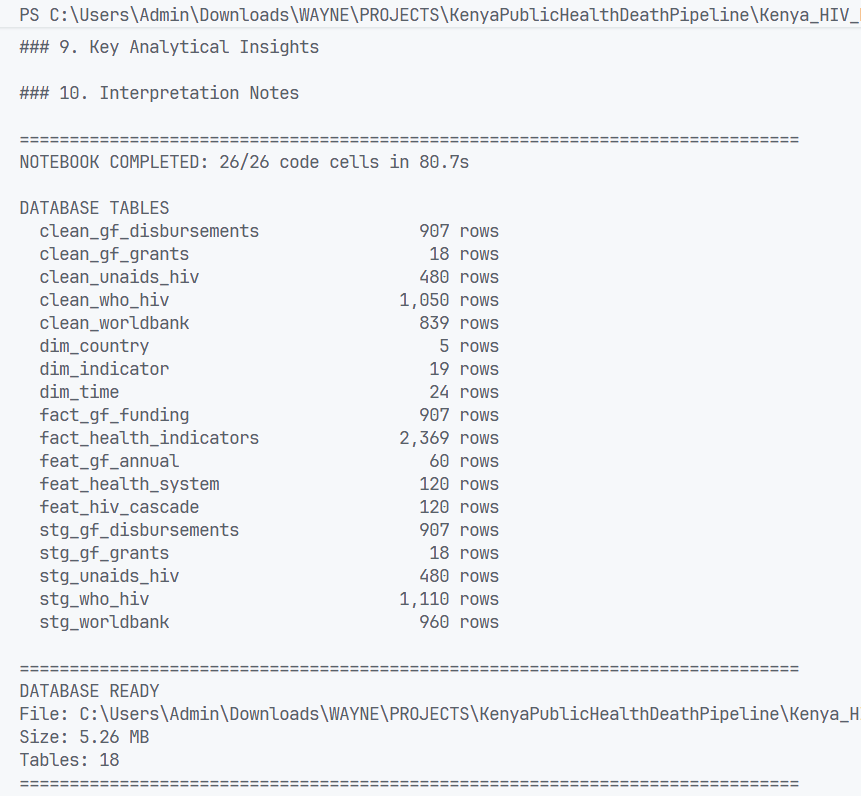
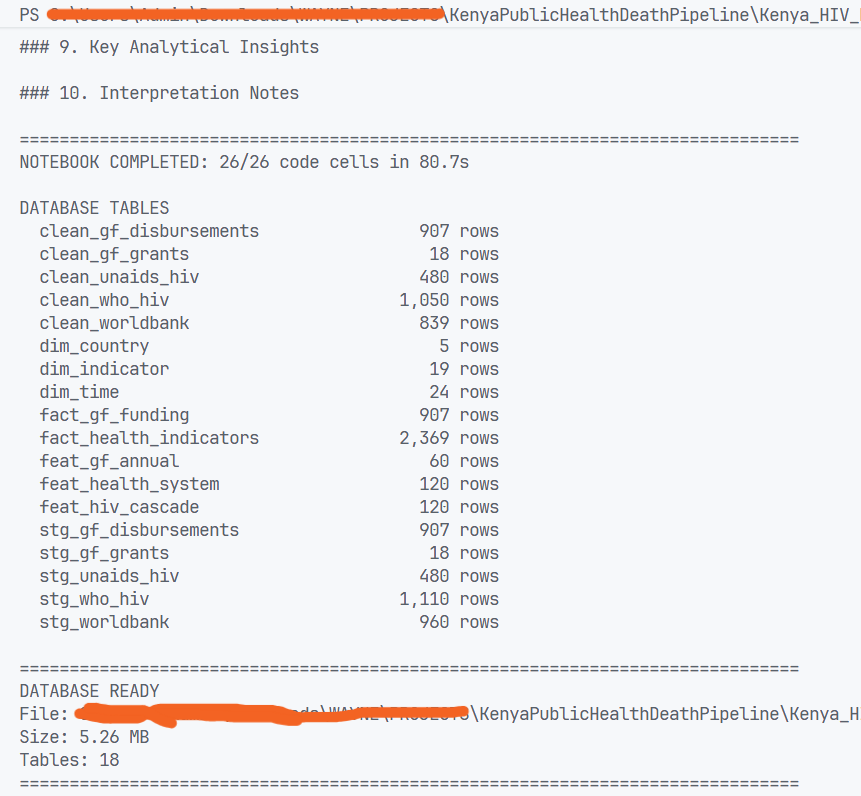
runner

Changed region(s): [[0.0906, 0.8744, 0.5436, 0.9347], [0.0604, 0.0, 0.5134, 0.0302]]

diff --git a/run_kenya_health_pipeline.py b/run_kenya_health_pipeline.py
@@ -15,6 +15,8 @@ from typing import Any
 
 
 ANSI_ESCAPE = re.compile(r"\x1B(?:[@-Z\\-_]|\[[0-?]*[ -/]*[@-~])")
+PROJECT_OWNER = "Wayne Willis Omondi"
+PROJECT_NAME = "Kenya HIV Programme Analytics Pipeline"
 
 
 def configure_terminal() -> None:
@@ -23,6 +25,14 @@ def configure_terminal() -> None:
         reconfigure = getattr(stream, "reconfigure", None)
         if reconfigure is not None:
             reconfigure(encoding="utf-8", errors="replace", line_buffering=True)
+
+
+def print_banner() -> None:
+    """Print project attribution before notebook execution begins."""
+    print("=" * 78)
+    print(PROJECT_NAME)
+    print(f"Prepared by: {PROJECT_OWNER}")
+    print("=" * 78)
 
 
 def parse_args(project_dir: Path) -> argparse.Namespace:
@@ -279,6 +289,7 @@ def resolve_cli_path(value: Path, project_dir: Path) -> Path:
 
 def main() -> int:
     configure_terminal()
+    print_banner()
     project_dir = Path(__file__).resolve().parent
     args = parse_args(project_dir)
     notebook_path = resolve_cli_path(args.notebook, project_dir)
